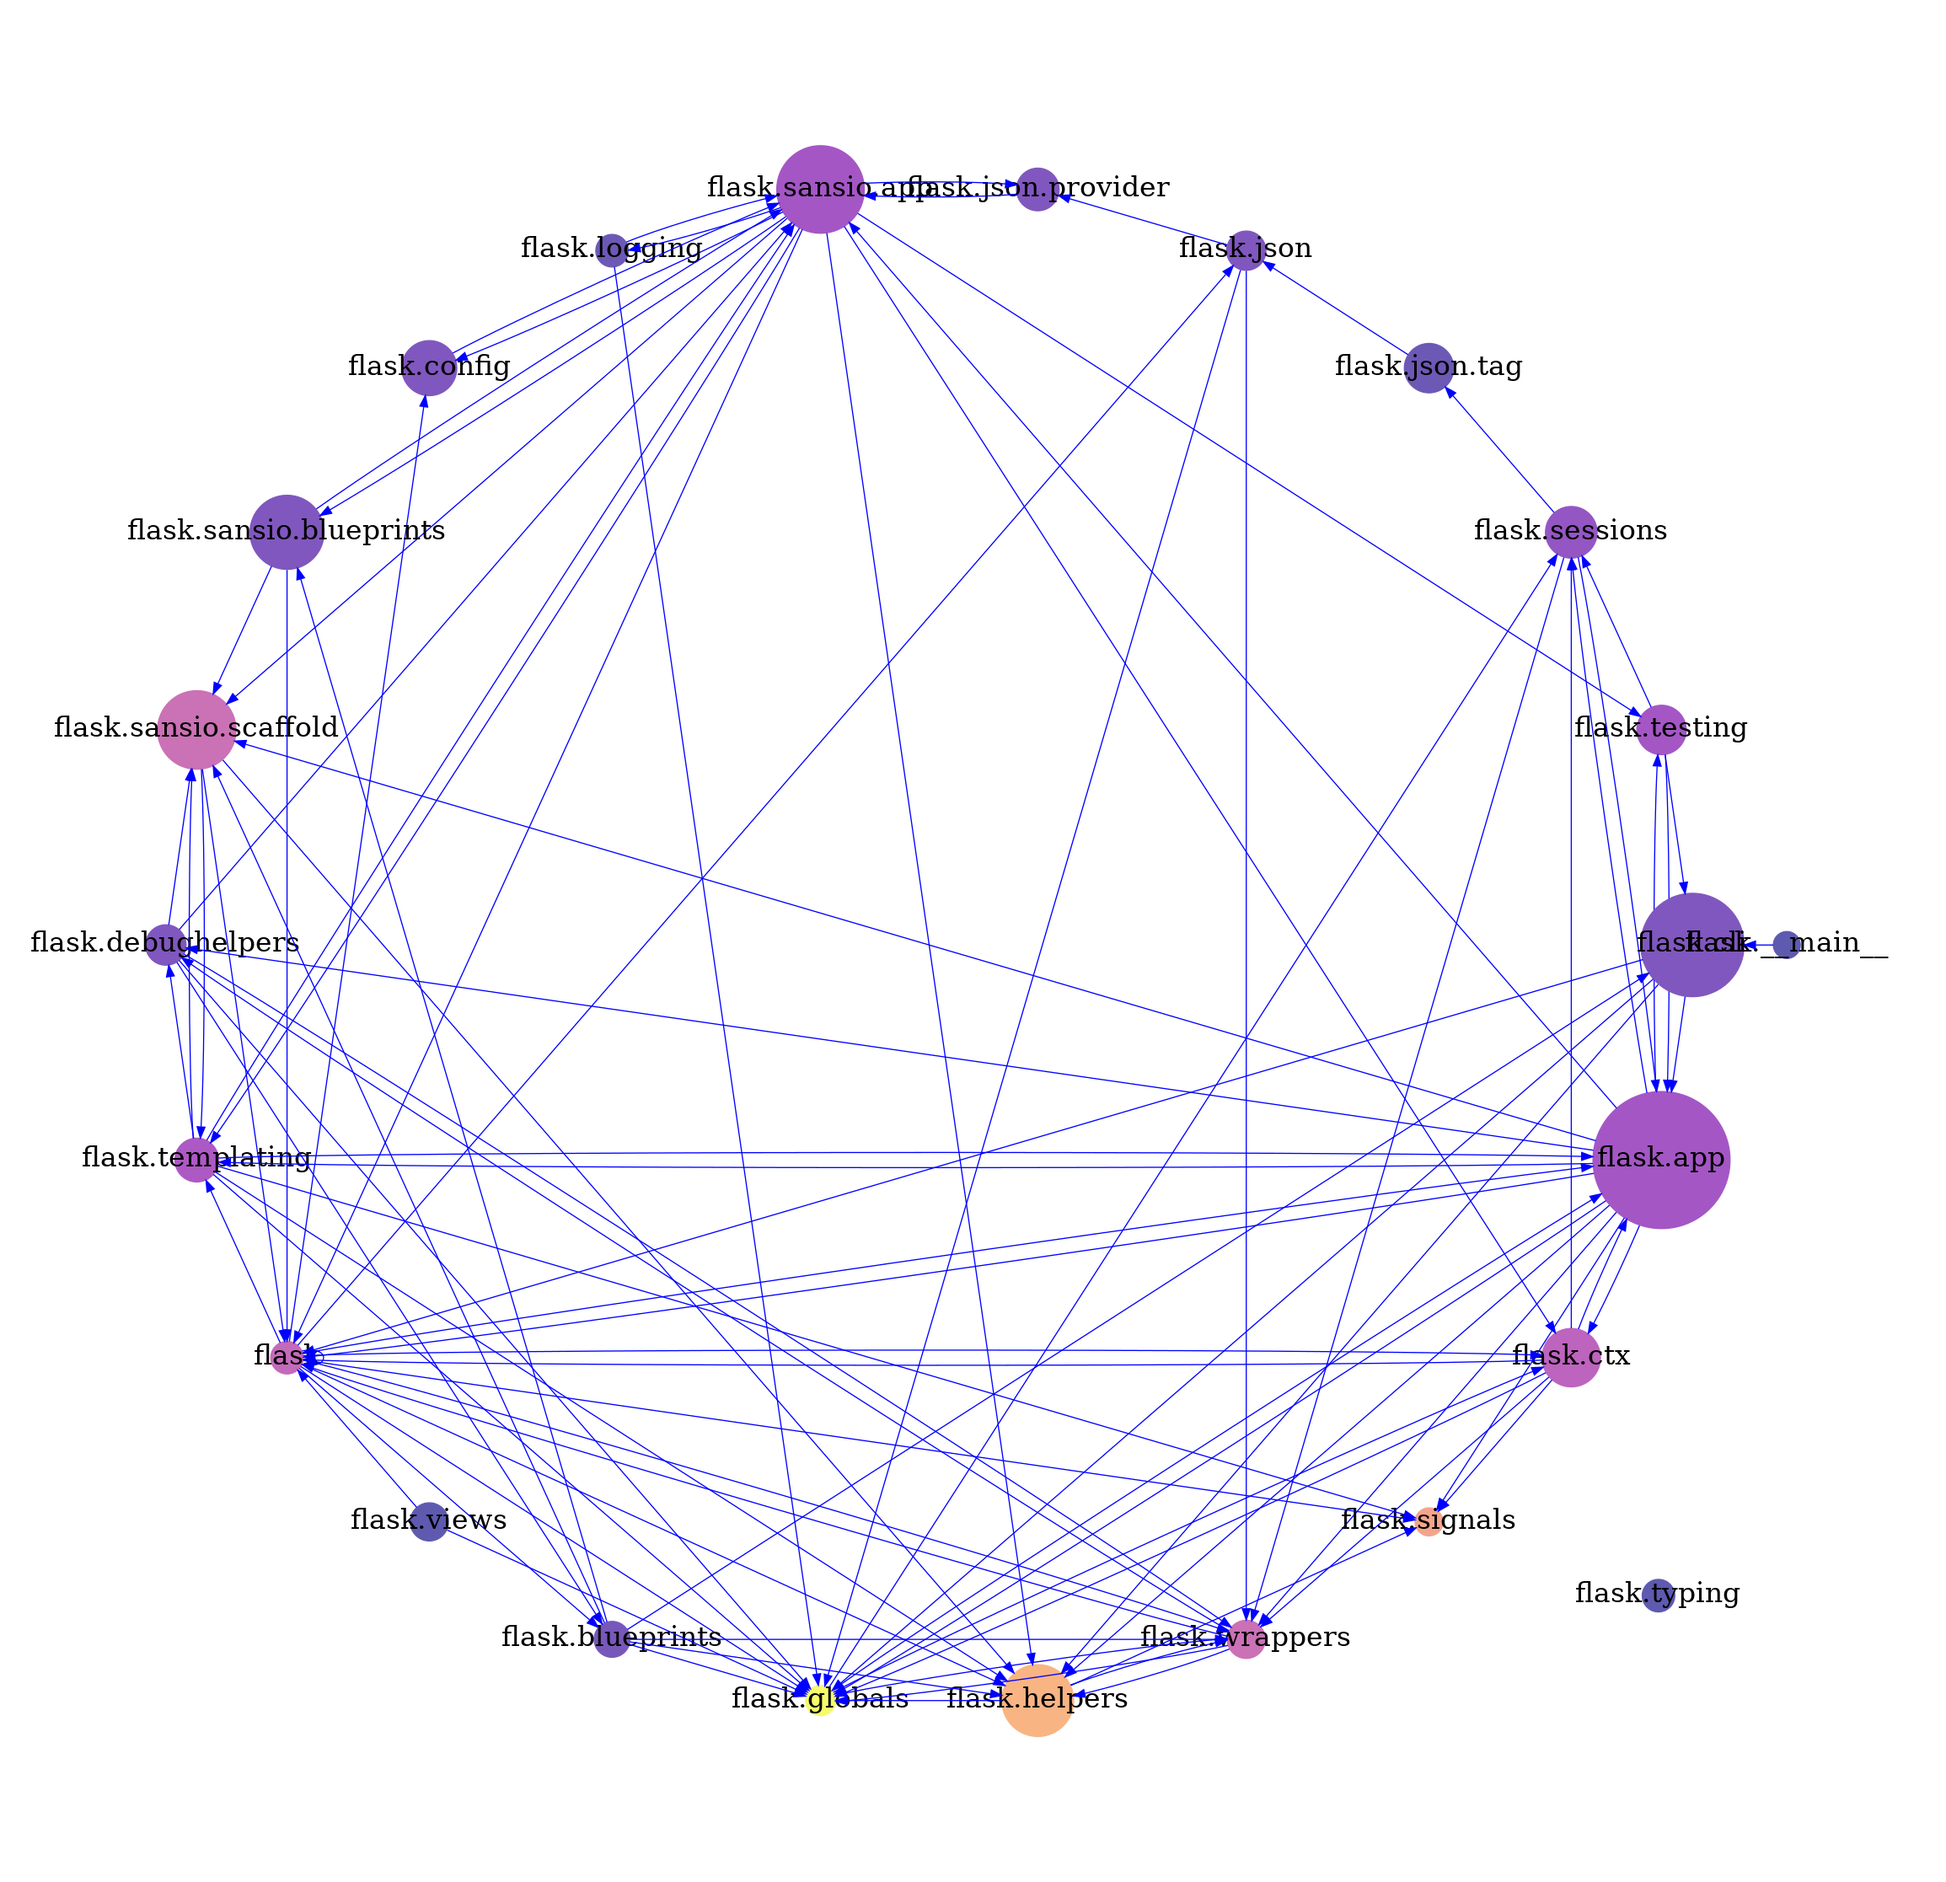
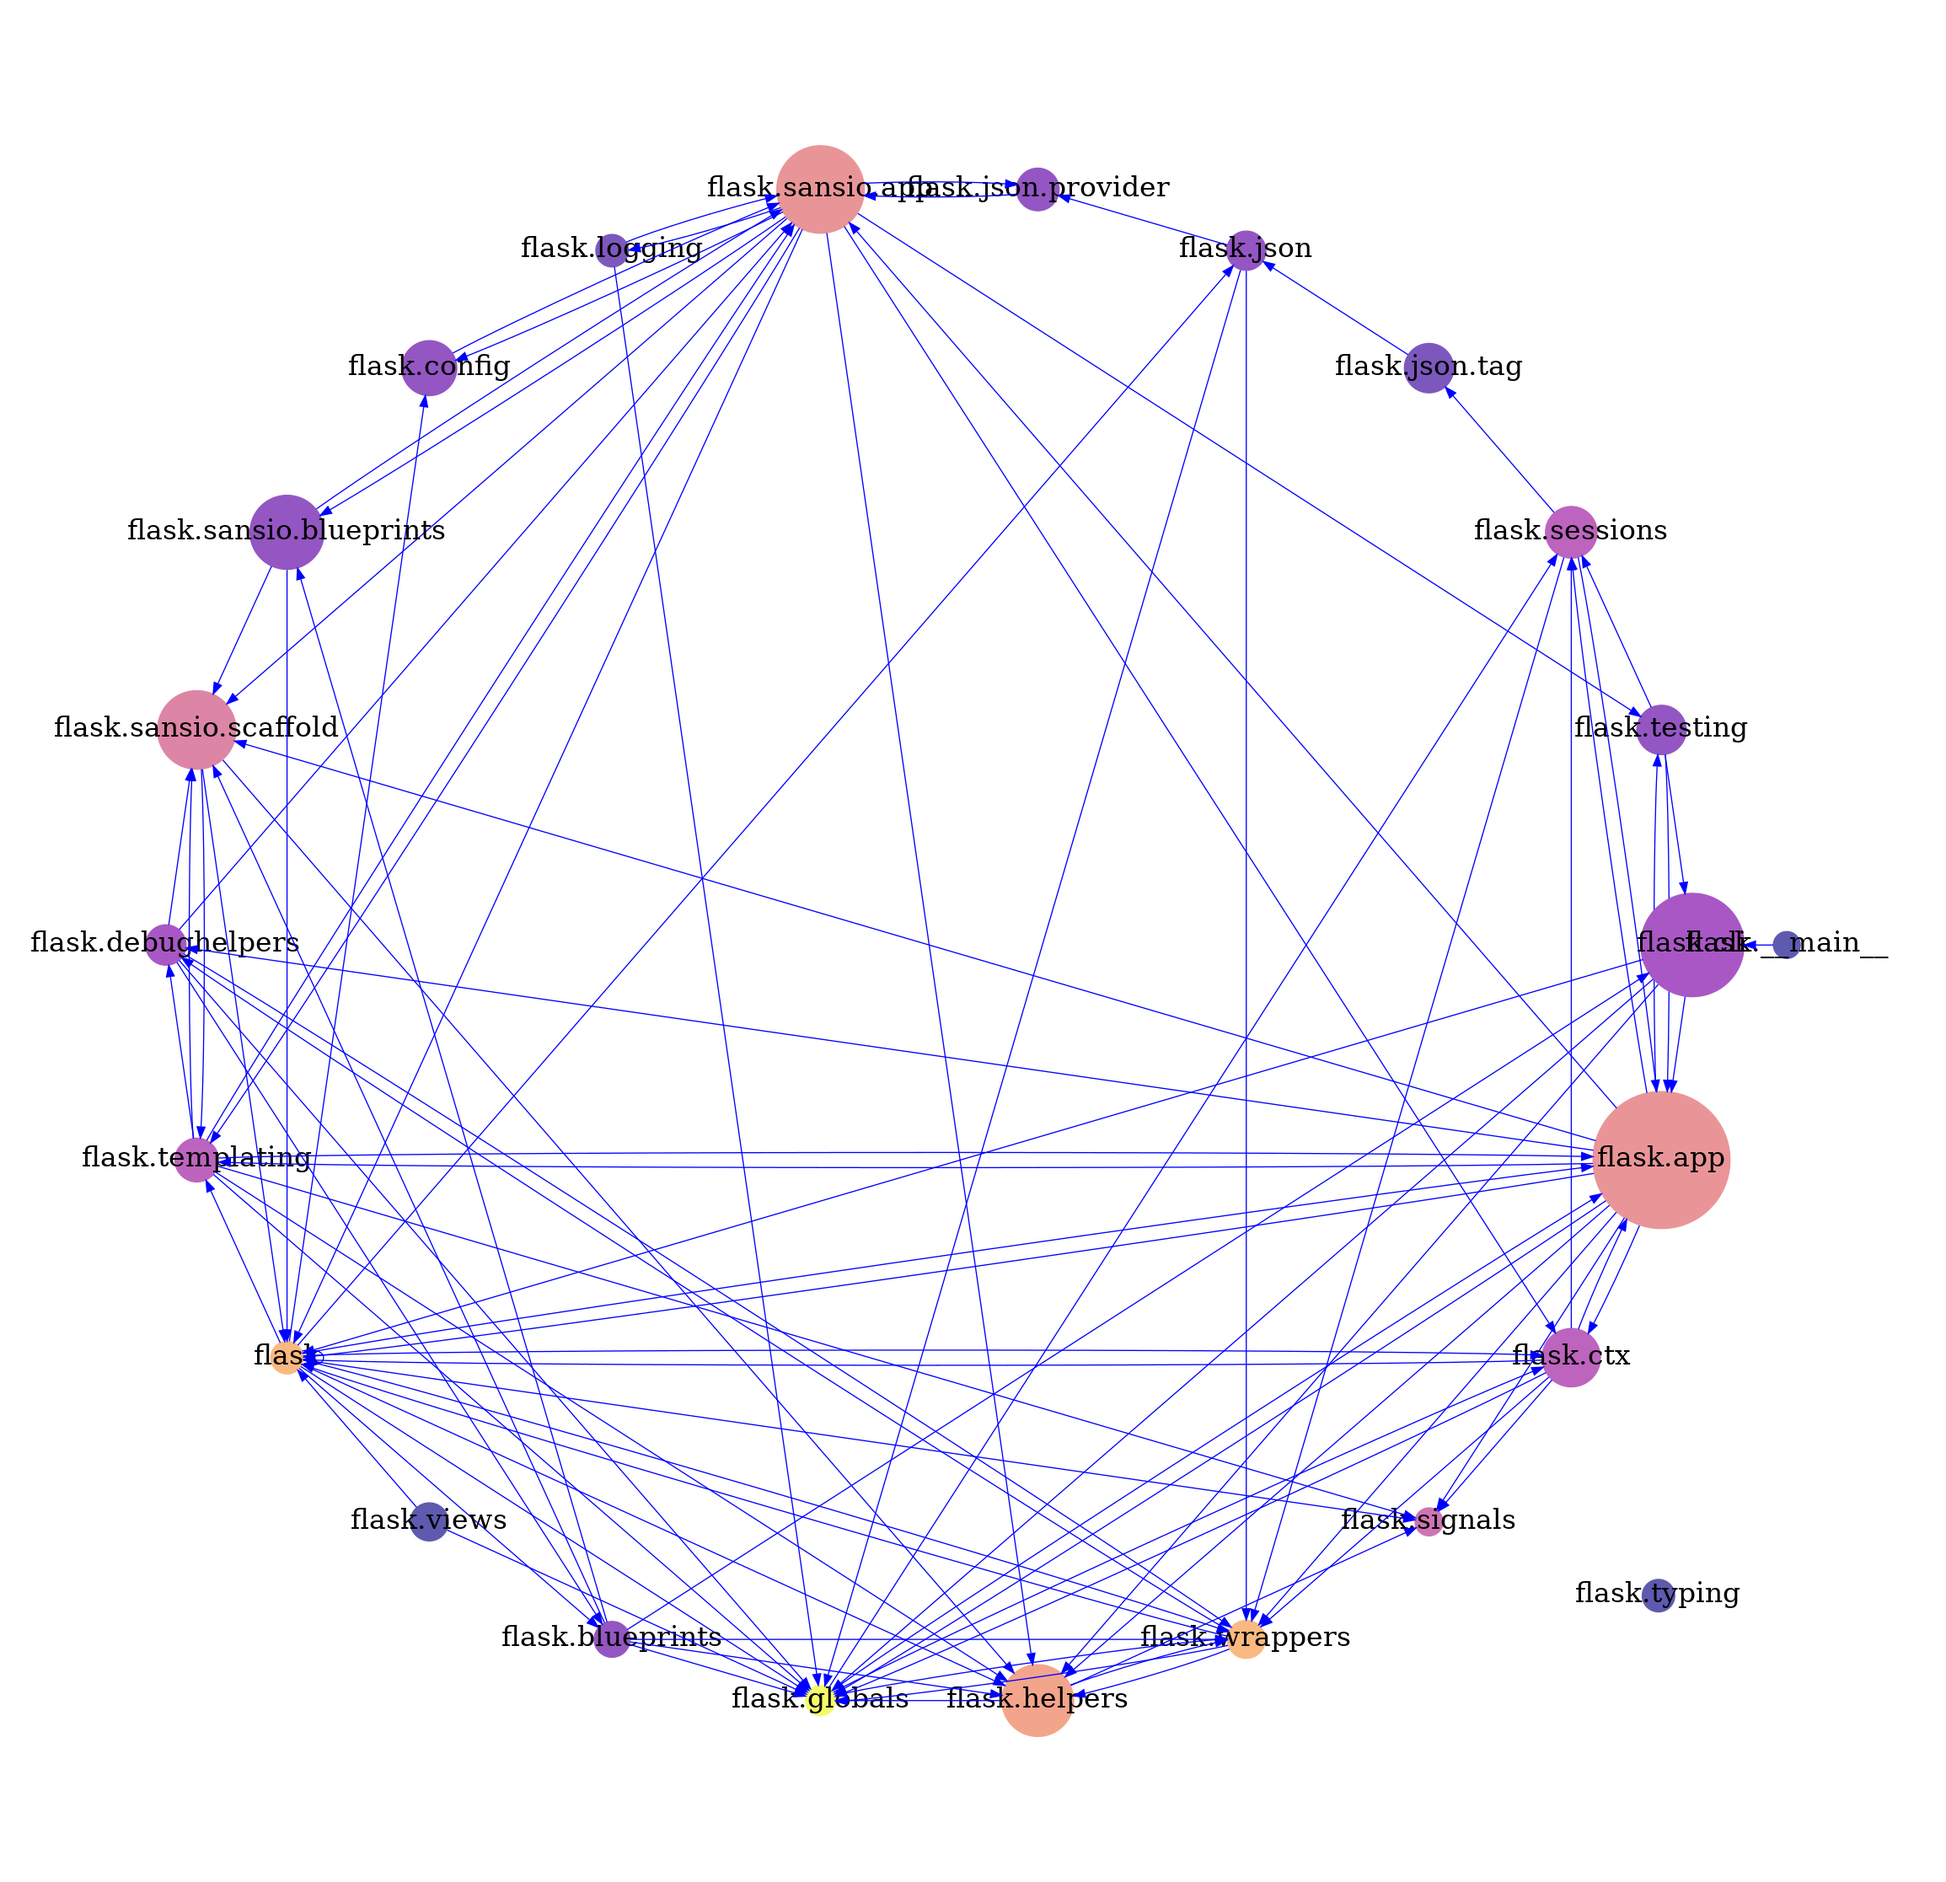
tweaks and bug fixes

diff --git a/src/visualizer.py b/src/visualizer.py
@@ -128,6 +128,8 @@ class ModuleVisualizer:
         fontsize=14,
         padding=0.8,
         arrow_head_size=1,
+        max_imports_threshold=None,
+        min_imports_threshold=None,
         **kwargs,
     ):
         graph = pgv.AGraph(
@@ -175,6 +177,15 @@ class ModuleVisualizer:
         #     pos=legend_pos,
         # )
 
+        def _exceeds_threshold(module_import_count):
+            return (
+                max_imports_threshold
+                and module_import_count > max_imports_threshold
+            ) or (
+                min_imports_threshold
+                and module_import_count < min_imports_threshold
+            )
+
         for module in self.int_modules:
             self._add_node(
                 graph,
@@ -188,6 +199,9 @@ class ModuleVisualizer:
             )
         if include_external_dependencies:
             for module in self.ext_modules:
+                if _exceeds_threshold(module.import_count):
+                    continue
+
                 self._add_node(
                     graph,
                     module,
@@ -202,6 +216,7 @@ class ModuleVisualizer:
         for file in self.repo.files:
             for module in file.imports:
                 module: Module
+
                 if (
                     module.mod_type == ModuleTypes.INTERNAL
                     and include_internal_dependencies
@@ -217,6 +232,16 @@ class ModuleVisualizer:
                     module.mod_type == ModuleTypes.EXTERNAL
                     and include_external_dependencies
                 ):
+                    if (
+                        max_imports_threshold
+                        and module.import_count > max_imports_threshold
+                    ):
+                        continue
+                    if (
+                        min_imports_threshold
+                        and module.import_count < min_imports_threshold
+                    ):
+                        continue
                     graph.add_edge(
                         file.module_id,
                         module.id,

diff --git a/src/run.py b/src/run.py
@@ -24,18 +24,46 @@ vis.visualize(
     node_size_adjuster=1.7,
     fontsize=25,
     padding=1.8,
-    # rankdir="BT",
 )
 vis.visualize(
-    output_file=artifacts / "external-dependencies.png",
+    output_file=artifacts / "external-dependencies--unfiltered.png",
     graph_layout="fdp",
     include_internal_dependencies=False,
     int_color="dodgerblue",
     int_size=vis.mean_node_size,
-    # int_xlabels=True,
     include_external_dependencies=True,
-    fontsize=20,
-    rankdir="LR",
+    fontsize=22,
+)
+vis.visualize(
+    output_file=artifacts / "external-dependencies--more-than-10-imports.png",
+    graph_layout="fdp",
+    include_internal_dependencies=False,
+    int_color="dodgerblue",
+    int_size=vis.mean_node_size,
+    include_external_dependencies=True,
+    fontsize=15,
+    min_imports_threshold=11,
+)
+vis.visualize(
+    output_file=artifacts / "external-dependencies--3-to-10-imports.png",
+    graph_layout="fdp",
+    include_internal_dependencies=False,
+    int_color="dodgerblue",
+    int_size=vis.mean_node_size,
+    include_external_dependencies=True,
+    fontsize=15,
+    min_imports_threshold=4,
+    max_imports_threshold=10,
+)
+vis.visualize(
+    output_file=artifacts / "external-dependencies--less-than-3-imports.png",
+    graph_layout="fdp",
+    include_internal_dependencies=False,
+    int_color="dodgerblue",
+    int_size=vis.mean_node_size,
+    include_external_dependencies=True,
+    fontsize=18,
+    max_imports_threshold=3,
 )
 vis.visualize(
     output_file=artifacts / "spaghetti-dependencies.png",
@@ -48,7 +76,9 @@ vis.visualize(
     include_external_dependencies=True,
     # ext_cmap="gnuplot",
     ext_color="firebrick1",
-    fontsize=25,
-    arrow_head_size=0.5,
+    fontsize=15,
+    arrow_head_size=0.7,
+    # min_imports_threshold=4,
+    # max_imports_threshold=10,
     # rankdir="LR",
 )

diff --git a/src/loader.py b/src/loader.py
@@ -53,7 +53,6 @@ class PythonFile:
     def load_imports(self, module_store: dict) -> list[any]:
         if self.imports:
             return self.imports
-        self.imports = []
 
         def create_if_not_exist(module_name, mod_type):
             if mod_type == ModuleTypes.EXTERNAL:
@@ -62,8 +61,11 @@ class PythonFile:
                 module_store[module_name] = Module(module_name, mod_type)
             return module_store[module_name]
 
+        self.imports: list[Module] = []
+        current_imports: set[str] = set()
+
         for node in ast.walk(self.ast):
-            module = None
+            module: Module = None
 
             if isinstance(node, ast.Import):
                 for module_import in node.names:
@@ -88,6 +90,9 @@ class PythonFile:
                     )
 
             if module:
+                if module.id in current_imports:
+                    continue
+                current_imports.add(module.id)
                 self.imports.append(module)
                 module.register_import()
 
